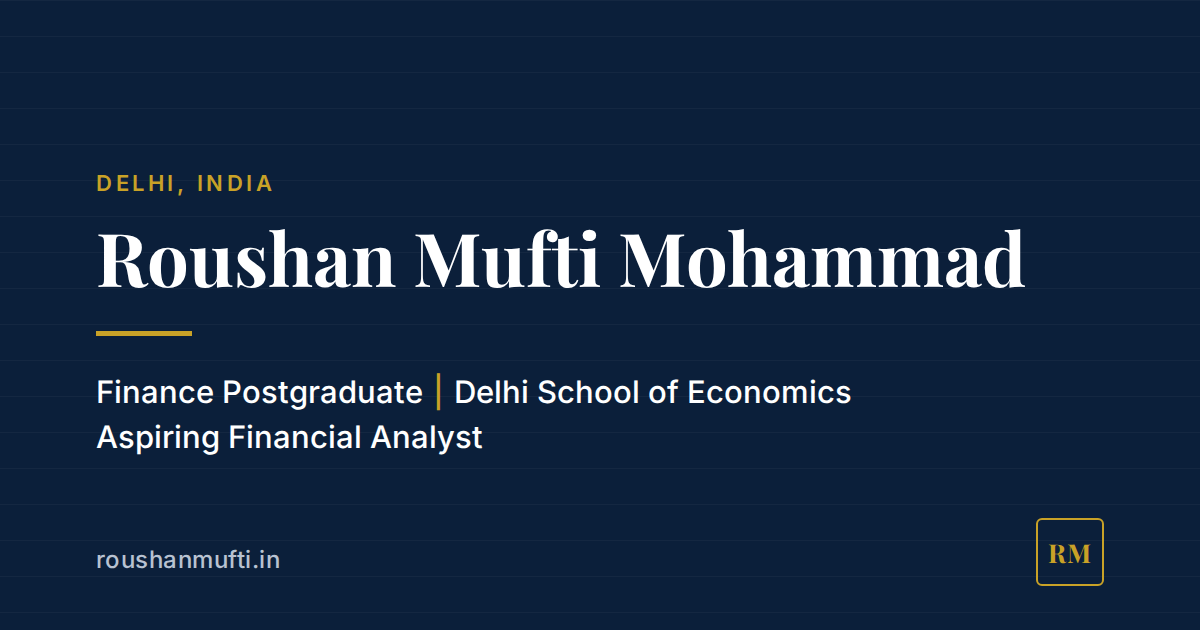
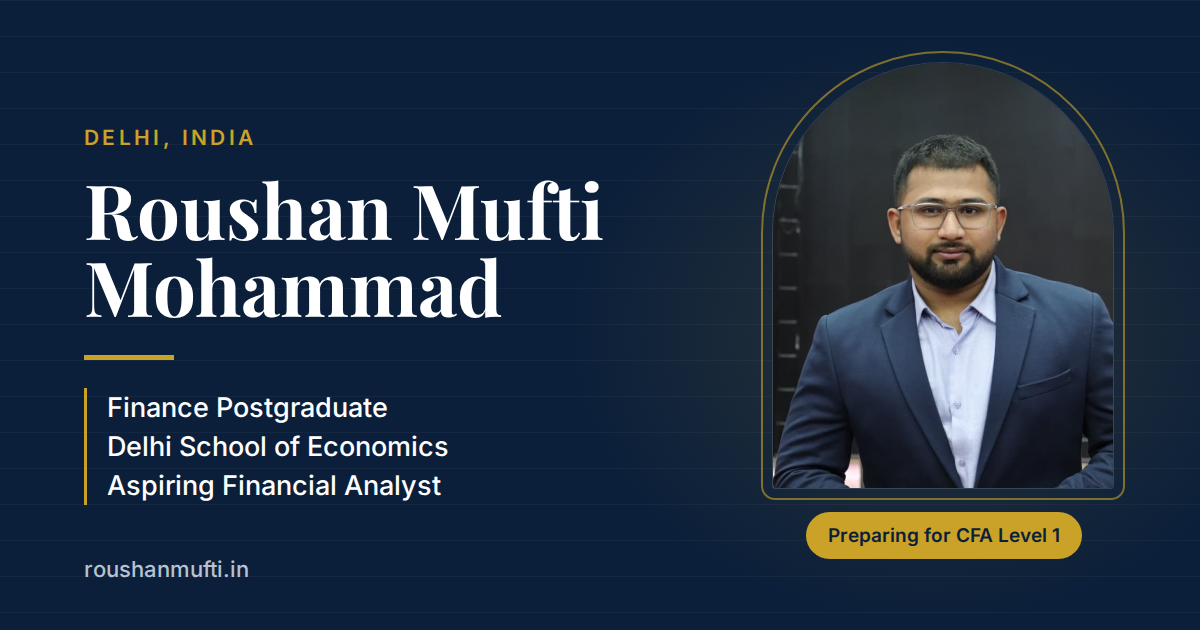
Add Roushan's photos to the hero, About, contact and link preview
- Hero: portrait from the indoor photo, cropped to 4:5 (assets/photos/roushan.jpg)
- About: campus photo beside the intro text, cropped to leave out bystanders
- Contact: small round avatar by the chat bubble
- Link preview (og-image.png) now shows the portrait
- Structured data includes the photo; README and CLAUDE.md list the photo files

Photos were re-saved without metadata.

Claude-Session: https://claude.ai/code/session_019i4NNZkN11ovXUkWredtBG

diff --git a/index.html b/index.html
@@ -46,6 +46,7 @@
     "@type": "Person",
     "name": "Roushan Mufti Mohammad",
     "url": "https://roushanmufti.in/",
+    "image": "https://roushanmufti.in/assets/photos/roushan.jpg",
     "description": "Finance Postgraduate | Delhi School of Economics | Aspiring Financial Analyst",
     "address": { "@type": "PostalAddress", "addressLocality": "Delhi", "addressCountry": "IN" },
     "alumniOf": [
@@ -134,10 +135,10 @@
         </div>
 
         <div class="hero-visual hero-in" style="--i: 2">
-          <!-- Photo: upload it as assets/photos/roushan.jpg (portrait, about 900 x 1125 px).
-               Until then, the gold "RM" monogram is shown instead. -->
+          <!-- Photo: assets/photos/roushan.jpg (upright, 4:5). If the file is ever
+               missing, the gold "RM" monogram is shown instead. -->
           <figure class="portrait">
-            <img src="assets/photos/roushan.jpg" alt="Roushan Mufti Mohammad" width="900" height="1125" fetchpriority="high" onerror="this.hidden = true">
+            <img src="assets/photos/roushan.jpg" alt="Portrait of Roushan Mufti Mohammad in a navy blazer" width="680" height="850" fetchpriority="high" onerror="this.hidden = true">
             <span class="portrait-fallback" aria-hidden="true">RM</span>
           </figure>
 
@@ -194,12 +195,11 @@
          ===================================================================== -->
     <section class="section" id="about" aria-labelledby="about-title">
       <div class="container">
-        <div class="section-head section-head-stack">
-          <div>
+        <div class="about-intro">
+          <div class="about-text">
             <p class="chip reveal">About me</p>
             <h2 id="about-title" class="display mask"><span>About Me &amp; My Journey</span></h2>
-          </div>
-          <p class="lead reveal">
+            <p class="lead reveal">
             I'm a finance postgraduate from the Delhi School of Economics with a
             specialisation in Finance and a strong interest in markets, macroeconomics,
             and how capital moves across borders. My coursework in international
@@ -207,7 +207,11 @@
             approach to financial problems. I'm currently preparing for CFA Level 1 and
             looking for roles in financial analysis, investment research, and banking
             where I can contribute from day one and keep learning.
-          </p>
+            </p>
+          </div>
+          <figure class="about-photo reveal">
+            <img src="assets/photos/roushan-campus.jpg" alt="Roushan Mufti Mohammad in a navy suit outside the Sir Shanker Lal Concert Hall" width="660" height="825" loading="lazy">
+          </figure>
         </div>
 
         <!-- Education timeline. The gold line fills in as the visitor scrolls. -->
@@ -577,7 +581,7 @@
           <!-- Decorative chat bubbles -->
           <div class="chat reveal" aria-hidden="true">
             <span class="chat-avatar">
-              <img src="assets/photos/roushan.jpg" alt="" width="96" height="96" loading="lazy" onerror="this.hidden = true">
+              <img src="assets/photos/roushan-avatar.jpg" alt="" width="192" height="192" loading="lazy" onerror="this.hidden = true">
               <span class="chat-avatar-fallback">RM</span>
             </span>
             <div class="chat-bubbles">

diff --git a/styles.css b/styles.css
@@ -801,16 +801,6 @@ img {
   margin-bottom: clamp(2.5rem, 5vw, 4rem);
 }
 
-/* Variant for a long intro: heading on top, text underneath */
-.section-head-stack {
-  grid-template-columns: minmax(0, 1fr);
-  gap: 1.75rem;
-}
-
-.section-head-stack .lead {
-  max-width: 46em;
-}
-
 .display {
   margin-top: 1rem;
   font-size: clamp(2.1rem, 4.6vw, 3.5rem);
@@ -850,6 +840,35 @@ img {
 
 /* 7. About + education journey
    ========================================================================== */
+/* Intro text on the left, campus photo on the right */
+.about-intro {
+  display: grid;
+  grid-template-columns: minmax(0, 1.3fr) minmax(0, 0.7fr);
+  gap: 2.5rem 5rem;
+  align-items: center;
+  margin-bottom: clamp(3.5rem, 7vw, 5.5rem);
+}
+
+.about-text .lead {
+  margin-top: 1.5rem;
+}
+
+.about-photo {
+  overflow: hidden;
+  aspect-ratio: 4 / 5;
+  border-radius: 20px;
+  outline: 1px solid rgba(201, 162, 39, 0.55);
+  outline-offset: 8px;
+  box-shadow: 0 24px 50px rgba(11, 31, 58, 0.14);
+}
+
+.about-photo img {
+  display: block;
+  width: 100%;
+  height: 100%;
+  object-fit: cover;
+}
+
 .journey {
   --progress: 0;           /* 0 to 1, set by script.js as the visitor scrolls */
   position: relative;
@@ -1840,8 +1859,13 @@ a.contact-row:hover {
   }
 
   .section-head,
-  .leadership-row {
+  .leadership-row,
+  .about-intro {
     grid-template-columns: 1fr;
+  }
+
+  .about-photo {
+    width: min(100%, 380px);
   }
 
   .contact-grid {

diff --git a/README.md b/README.md
@@ -15,12 +15,19 @@ Live at: https://roushanmufti.in
 | `CNAME` | Tells GitHub Pages to use the domain `roushanmufti.in` |
 | `_config.yml` | Keeps `README.md` and `CLAUDE.md` off the live site |
 
-## Adding your photo
+## Photos
 
-Upload a portrait photo as `assets/photos/roushan.jpg` (upright, roughly
-900 × 1125 pixels, under about 300 KB). It appears in the arch-shaped frame
-at the top of the page and next to the chat bubble in the contact section.
-Until it is uploaded, a gold "RM" monogram is shown instead.
+The photos live in `assets/photos/`:
+
+| File | Where it appears |
+| --- | --- |
+| `roushan.jpg` | Arch-shaped frame at the top of the page (upright, 4:5) |
+| `roushan-campus.jpg` | Next to the About text (upright, 4:5) |
+| `roushan-avatar.jpg` | Small round picture by the chat bubble in Contact (square) |
+
+To change a photo, upload a new one with the same file name. If the top
+photo is ever missing, a gold "RM" monogram is shown instead. The picture
+used for link previews is `assets/og-image.png`.
 
 ## Adding the resume and certificates
 

diff --git a/CLAUDE.md b/CLAUDE.md
@@ -18,8 +18,9 @@ within the first screen.
 - Headline: "Finance Postgraduate | Delhi School of Economics | Aspiring Financial Analyst"
 - Availability: can join within one month of accepting an offer
 - Open to working in: major cities in India, the UAE / Gulf region, and Europe
-- Photo: his own portrait at /assets/photos/roushan.jpg (shown in the hero and
-  the contact section; an "RM" monogram is shown until it is uploaded)
+- Photos (his own): /assets/photos/roushan.jpg (hero), roushan-campus.jpg
+  (About), roushan-avatar.jpg (contact chat bubble); also used in og-image.png.
+  Crops leave out bystanders; keep it that way.
 
 ### Education
 - **M.Com (Finance specialisation)** — Delhi School of Economics, University of Delhi (2024–2026)
